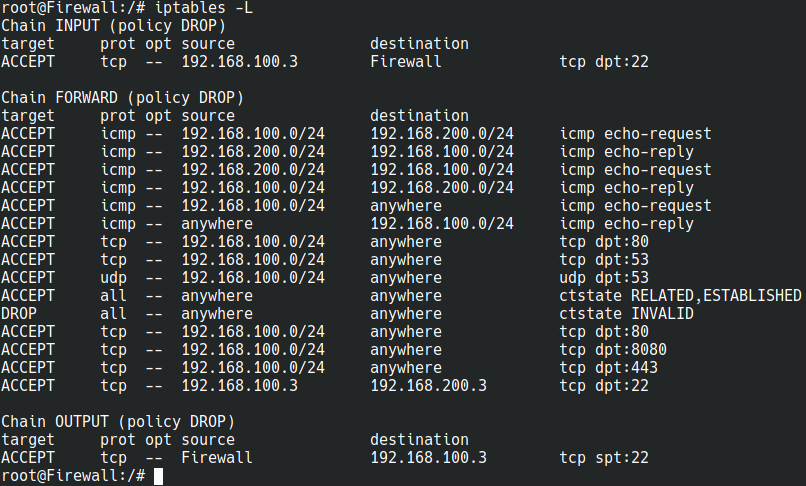
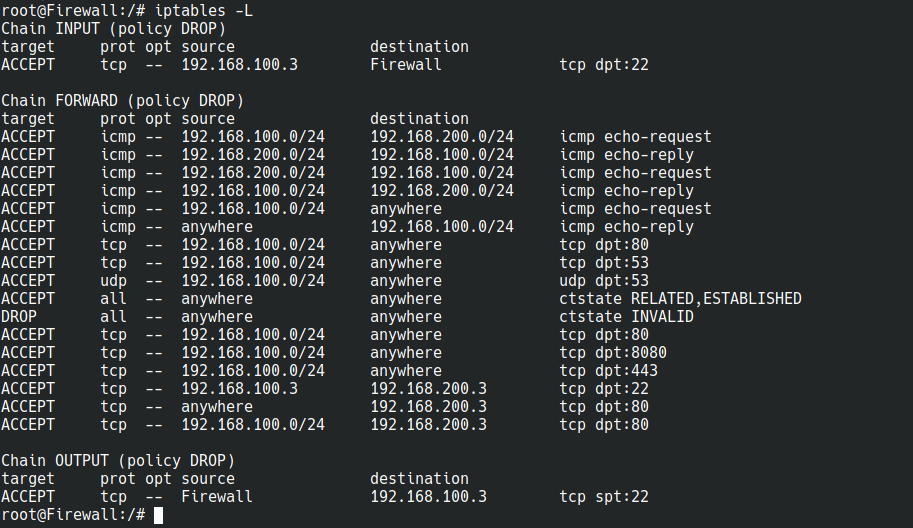
Final iptables

diff --git a/README.md b/README.md
@@ -546,6 +546,9 @@ Commandes iptables :
 iptables -A FORWARD -p tcp --dport 80 -s 192.168.100.0/24 -o eth0 -j ACCEPT
 iptables -A FORWARD -p tcp --dport 8080 -s 192.168.100.0/24 -o eth0 -j ACCEPT
 iptables -A FORWARD -p tcp --dport 443 -s 192.168.100.0/24 -o eth0 -j ACCEPT
+
+iptables -A FORWARD -p tcp --dport 80 -d 192.168.200.3 -i eth0 -j ACCEPT
+iptables -A FORWARD -p tcp --dport 80 -d 192.168.200.3 -s 192.168.100.0/24 -j ACCEPT
 ```
 
 ---
@@ -570,6 +573,8 @@ LIVRABLE : Commandes iptables
 **LIVRABLE : capture d'écran.**
 
 ![](figures/iptables_http.png)
+
+![](figures/iptables_http_dmz.png)
 
 ---
 
